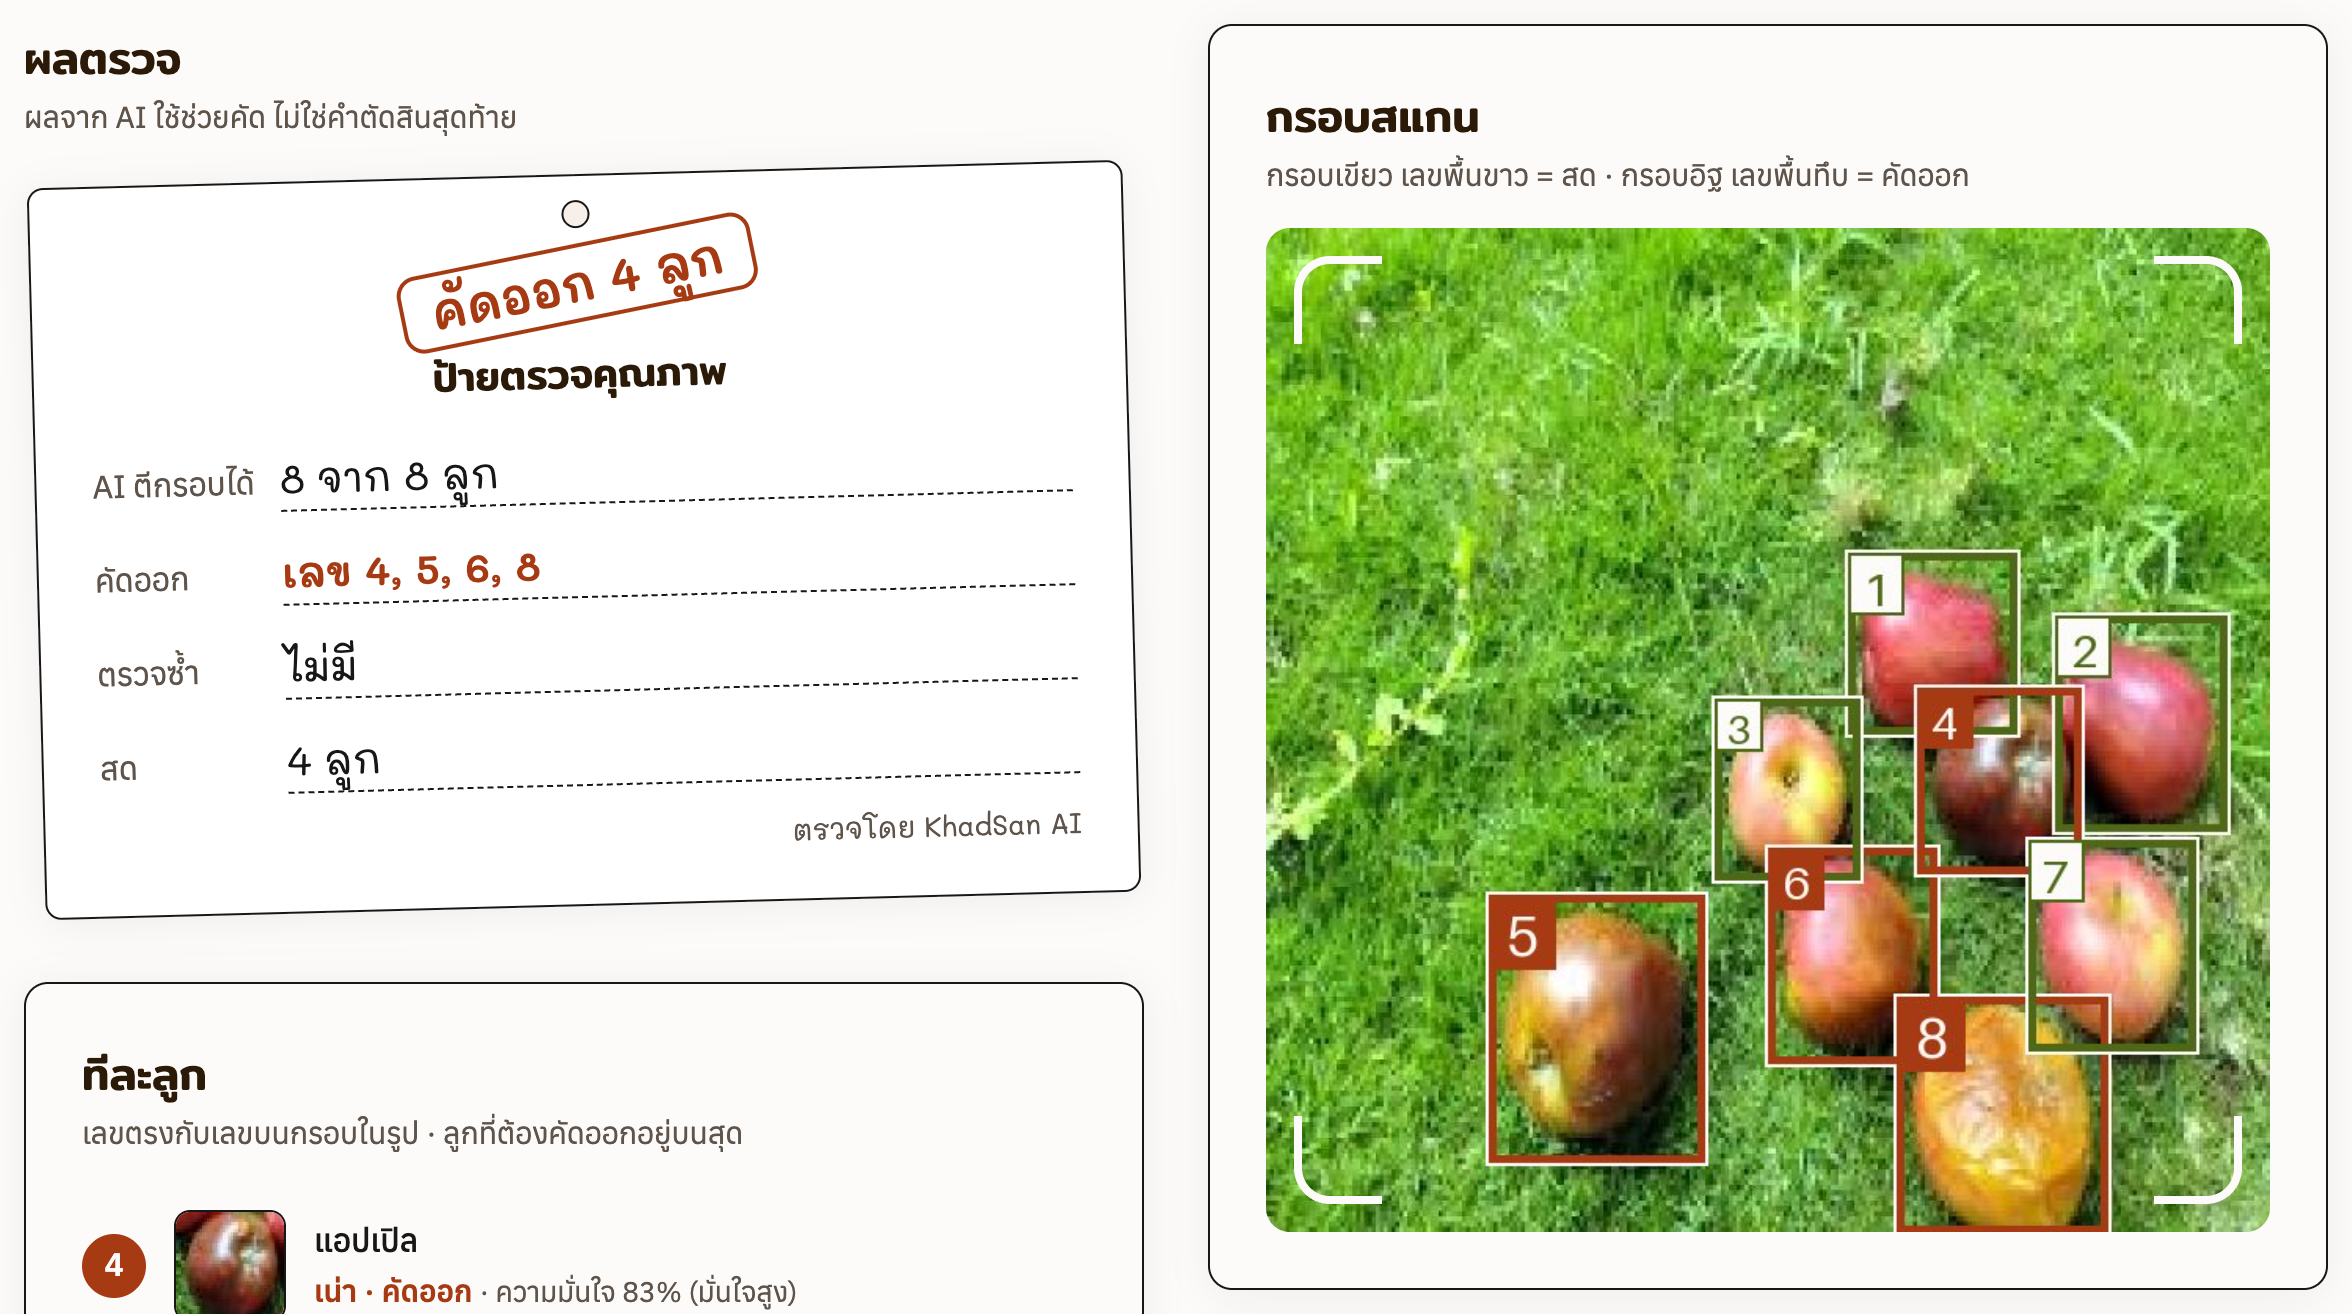
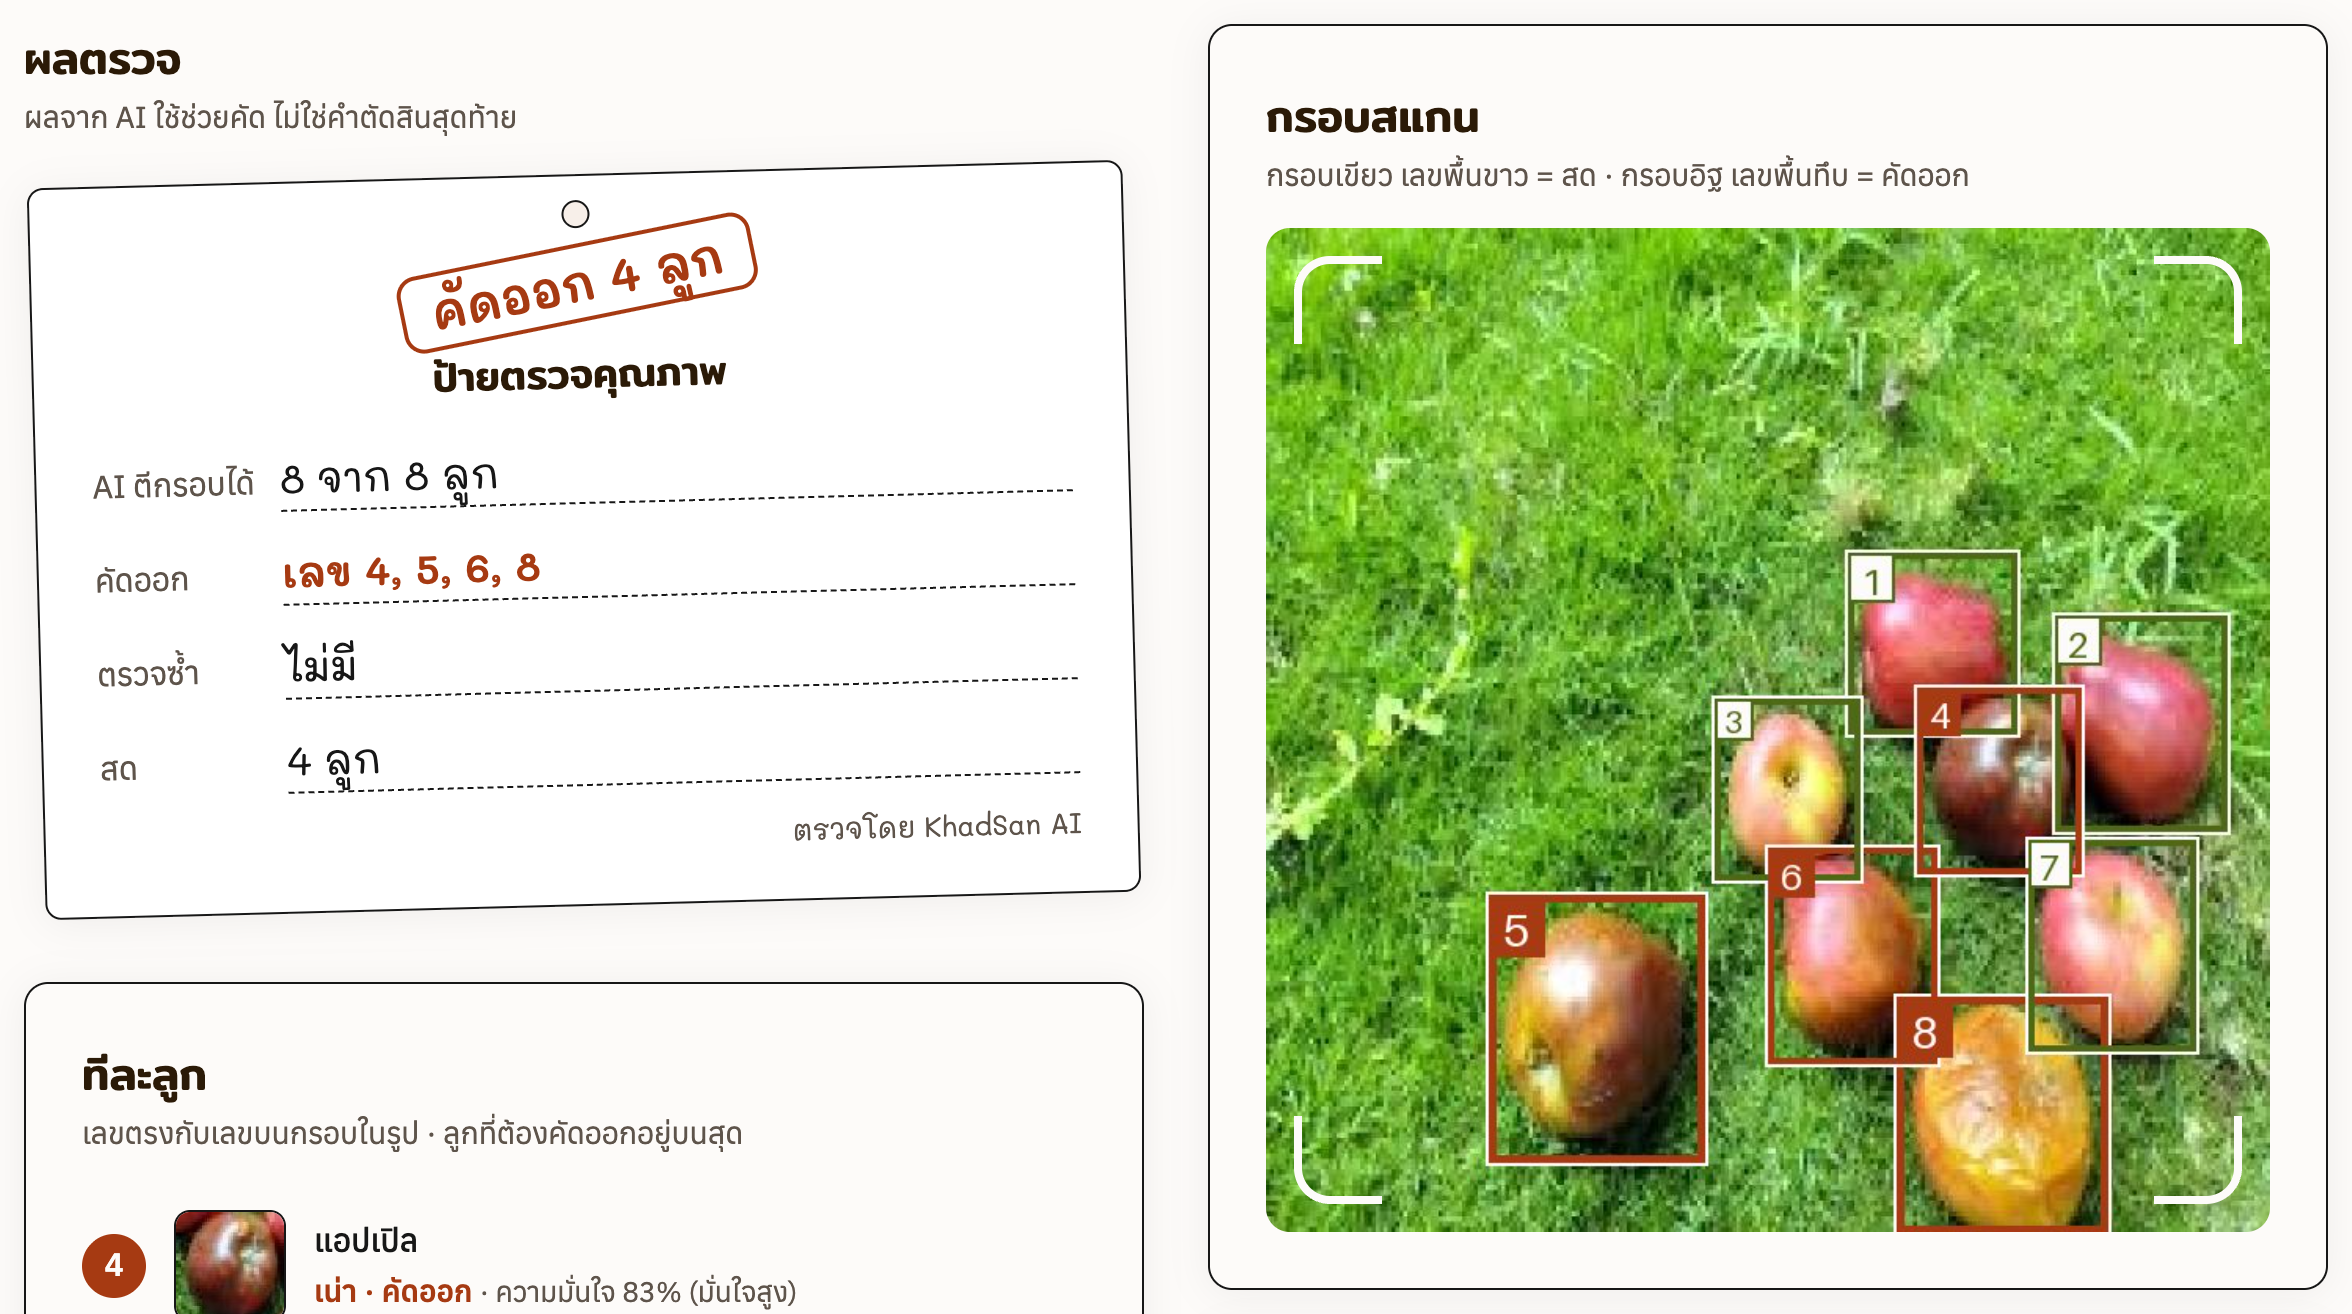
ผลตรวจ 3 แบบ เส้นกรอบและเลขโตตามขนาดลูก และใช้การเทรน 3 รอบ

diff --git a/web/app.py b/web/app.py
@@ -223,10 +223,7 @@ def find_more(img, fruits, missing):
 def draw_boxes(img, fruits):
     out = img.copy()
     draw = ImageDraw.Draw(out)
-    line = max(5, round(max(out.size) / 120))       # รูปใหญ่ เส้นก็หนาขึ้น
-    ring = max(2, line // 2)                        # ขอบครีมรอบนอก
-    biggest = max(18, round(max(out.size) / 18))    # เลขใหญ่สุด (ลูกใหญ่ อ่านง่ายบนมือถือ)
-    smallest = max(12, round(max(out.size) / 60))   # เลขเล็กสุด (ลูกเล็กมาก ยังพออ่านออก)
+    side = max(out.size)   # ด้านยาวของรูป ใช้กำหนดขนาดเล็กสุด/ใหญ่สุด
     fonts = {}   # เก็บฟอนต์แต่ละขนาดไว้ ไม่ต้องโหลดซ้ำ
 
     # วาดกรอบใหญ่ก่อน กรอบเล็กจะไม่โดนทับ
@@ -235,6 +232,7 @@ def draw_boxes(img, fruits):
     # รอบ 1 : กรอบทุกลูก (ขอบครีม + สีด้านใน เห็นชัดทุกพื้นหลัง)
     for f in order:
         x1, y1, x2, y2 = f["box"]
+        line, ring, font_size = box_sizes(f, side)
         draw.rectangle([x1 - ring, y1 - ring, x2 + ring, y2 + ring], outline=COLOR_PAPER, width=ring)
         if f["state"] == "check":
             # ให้ตรวจซ้ำ = เส้นประบนพื้นครีม
@@ -247,9 +245,7 @@ def draw_boxes(img, fruits):
     # สด / ให้ตรวจซ้ำ = ป้ายครีมเลขเขียว / อื่นๆ = ป้ายทึบเลขครีม (คนแยกสีไม่ออกก็ดูออก)
     for f in order:
         x1, y1, x2, y2 = f["box"]
-        # เลขโตตามขนาดลูก : ไม่เกินราว 1 ใน 4 ของด้านสั้น จะได้ไม่บังผลไม้ในรูปที่มีหลายลูก
-        font_size = round(min(x2 - x1, y2 - y1) * 0.28)
-        font_size = max(smallest, min(biggest, font_size))
+        line, ring, font_size = box_sizes(f, side)
         if font_size not in fonts:
             fonts[font_size] = ImageFont.load_default(size=font_size)
         font = fonts[font_size]
@@ -264,6 +260,19 @@ def draw_boxes(img, fruits):
             text_color = COLOR_PAPER
         draw.text((x1 + font_size * 0.3, y1 + font_size * 0.1), label, fill=text_color, font=font)
     return out
+
+
+# ขนาดเส้นกรอบ ขอบครีม และเลข ของแต่ละลูก : โตตามขนาดลูก (ด้านสั้นของกรอบ)
+# ลูกเล็กในรูปที่มีหลายลูก เส้นบาง เลขเล็ก จะได้ไม่บังผลไม้ / ลูกใหญ่ไม่หนาเกิน
+# มีขั้นต่ำกับขั้นสูงตามขนาดรูป กันเส้นบางจนมองไม่เห็นหรือหนาเกินไป
+def box_sizes(f, side):
+    short = min(f["box"][2] - f["box"][0], f["box"][3] - f["box"][1])
+    line = round(short * 0.04)                                      # เส้นราว 4% ของด้านสั้น
+    line = max(max(2, round(side / 400)), min(max(4, round(side / 120)), line))
+    ring = max(1, line // 2)                                        # ขอบครีมครึ่งหนึ่งของเส้น
+    font_size = round(short * 0.22)                                 # เลขราว 1 ใน 5 ของด้านสั้น
+    font_size = max(max(11, round(side / 70)), min(max(16, round(side / 18)), font_size))
+    return line, ring, font_size
 
 
 # กรอบเส้นประ (PIL ไม่มีให้ วาดเส้นสั้นๆ ต่อกันเอง)

diff --git a/README.md b/README.md
@@ -259,7 +259,7 @@ python app.py
 หน้าผลตรวจจะมีรูปที่ตีกรอบทุกลูกพร้อมเลขกำกับ มีป้ายตรวจคุณภาพบอกว่า AI ตีกรอบได้กี่ลูก (จากกี่ลูก ถ้าใส่จำนวนไว้) ลูกเลขไหนต้องคัดออก ลูกเลขไหนให้ตรวจซ้ำ และสดกี่ลูก
 ถ้าไม่เจอผลไม้เลย ใต้ป้ายจะบอกวิธีถ่ายใหม่พร้อมปุ่มถ่ายใหม่
 ข้างล่างเป็นรายการทีละลูก บอกชนิด สถานะ และ % ความมั่นใจ ลูกเน่าขึ้นก่อน (แสดงไม่เกิน 30 ลูก)
-เลขกำกับเรียงทีละแถว บนลงล่าง ซ้ายไปขวา เหมือนอ่านหนังสือ ขนาดเลขโตตามขนาดลูก (ลูกเล็กเลขเล็ก) จะได้ไม่บังผลไม้ในรูปที่มีหลายลูก
+เลขกำกับเรียงทีละแถว บนลงล่าง ซ้ายไปขวา เหมือนอ่านหนังสือ ความหนาเส้นกรอบและขนาดเลขโตตามขนาดลูก (ลูกเล็กเส้นบางเลขเล็ก มีขั้นต่ำ/ขั้นสูง) จะได้ไม่บังผลไม้ในรูปที่มีหลายลูก
 
 แต่ละลูกได้ 1 ใน 3 ผล ตัดสินจากความมั่นใจของโมเดล (ค่าพวกนี้ตั้งไว้ใน `web/app.py`)
 % ความมั่นใจ คือ AI แน่ใจในคำตอบของตัวเองแค่ไหน ไม่ได้แปลว่าสดกี่ %
